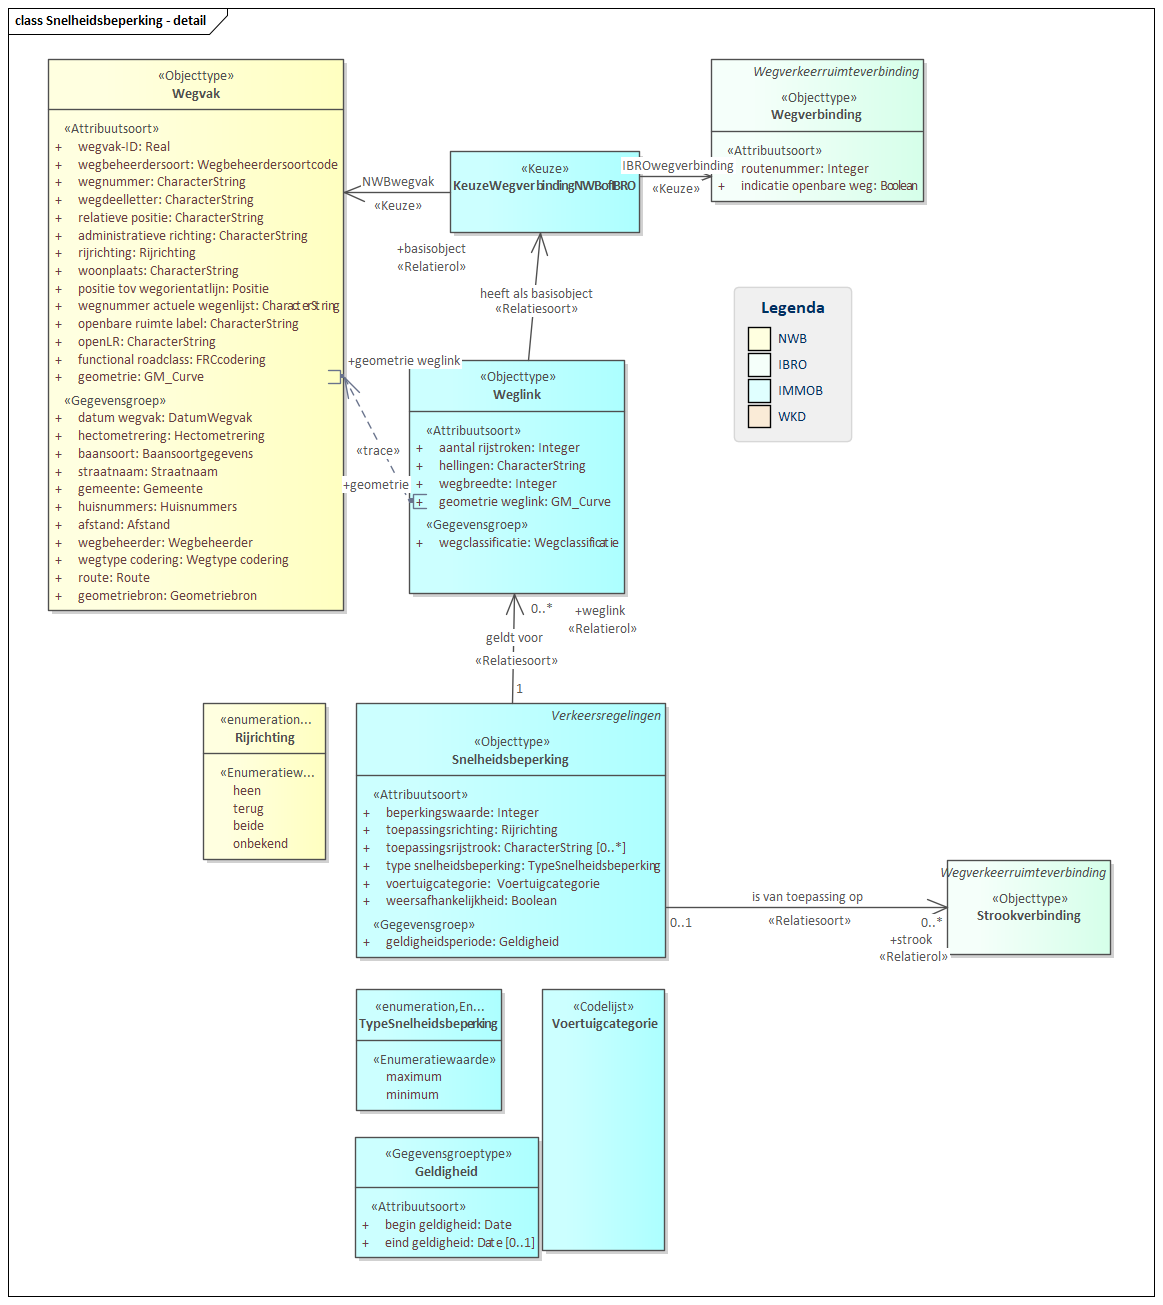
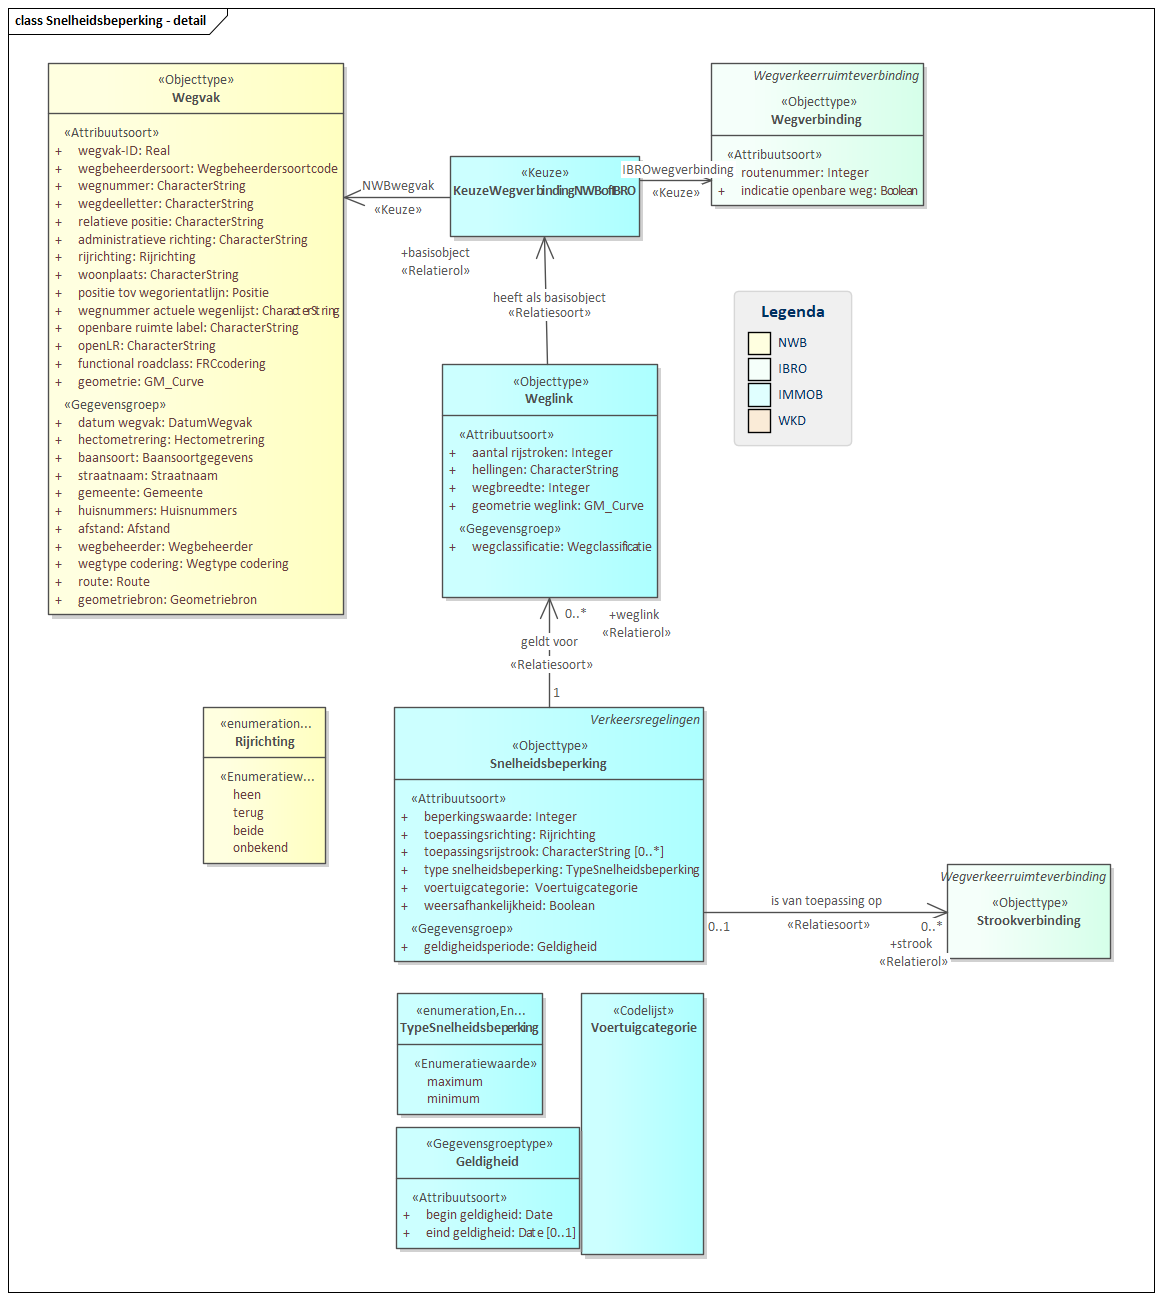
MIMCM-IMMob-conceptueel-1.0-1-20250414-20250428-114720

Changed region(s): [[0.031, 0.0308, 0.9596, 0.9846], [0.6191, 0.2154, 0.712, 0.3385], [0.2786, 0.2769, 0.3095, 0.3077]]

diff --git a/data/IMMOB-cat.respec.html b/data/IMMOB-cat.respec.html
@@ -1,4 +1,4 @@
-<!DOCTYPE HTML><section id="cat" class="normative"><h2>Gegevensdefinitie</h2><!--MIMCM-IMMob-conceptueel-1.0-1-20250414-20250428-114551 imvertor 4.3.0--><section id="global_package_Mobiliteit"><h3>Domein   Mobiliteit</h3><section id="EAID_4CC5EE07_D982_4fb9_B579_A338B9A2E7E2"><h4>   Informatiemodel Mobiliteit - overzicht</h4><div class="imageinfo overview"><figure class="uml-diagram"><img id="EAID_4CC5EE07_D982_4fb9_B579_A338B9A2E7E2" src="data/Images/EAID_4CC5EE07_D982_4fb9_B579_A338B9A2E7E2.png" usemap="#imagemap-EAID_4CC5EE07_D982_4fb9_B579_A338B9A2E7E2" alt="Diagram: Informatiemodel Mobiliteit - overzicht"><figcaption> ‒ Diagram: Informatiemodel Mobiliteit</figcaption></figure><map name="imagemap-EAID_4CC5EE07_D982_4fb9_B579_A338B9A2E7E2"><area shape="rect" alt="Wegvak" coords="258,106,554,210" href="#global_class_NWB_Wegvak"><area shape="rect" alt="Junctie" coords="48,262,171,358" href="#global_class_NWB_Junctie"><area shape="rect" alt="KeuzeWegknoopNWBofIBRO" coords="91,413,258,495" href="#global_class_Mobiliteit_KeuzeWegknoopNWBofIBRO"><area shape="rect" alt="Wegknoop" coords="236,262,359,358" href="#global_class_IBRO_Wegknoop"><area shape="rect" alt="Wegverbinding" coords="585,106,798,188" href="#global_class_IBRO_Wegverbinding"><area shape="rect" alt="Snelheidsbeperking" coords="463,804,772,1059" href="#global_class_Mobiliteit_Snelheidsbeperking"><area shape="rect" alt="KeuzeWegverbindingNWBofIBRO" coords="524,319,723,401" href="#global_class_Mobiliteit_KeuzeWegverbindingNWBofIBRO"><area shape="rect" alt="Wegclassificatie" coords="772,478,995,635" href="#global_class_Mobiliteit_Wegclassificatie"><area shape="rect" alt="Knooppunt" coords="113,559,236,611" href="#global_class_Mobiliteit_Knooppunt"><area shape="rect" alt="Weglink" coords="509,478,725,693" href="#global_class_Mobiliteit_Weglink"></map><p>
+<!DOCTYPE HTML><section id="cat" class="normative"><h2>Gegevensdefinitie</h2><!--MIMCM-IMMob-conceptueel-1.0-1-20250414-20250428-114720 imvertor 4.3.0--><section id="global_package_Mobiliteit"><h3>Domein   Mobiliteit</h3><section id="EAID_4CC5EE07_D982_4fb9_B579_A338B9A2E7E2"><h4>   Informatiemodel Mobiliteit - overzicht</h4><div class="imageinfo overview"><figure class="uml-diagram"><img id="EAID_4CC5EE07_D982_4fb9_B579_A338B9A2E7E2" src="data/Images/EAID_4CC5EE07_D982_4fb9_B579_A338B9A2E7E2.png" usemap="#imagemap-EAID_4CC5EE07_D982_4fb9_B579_A338B9A2E7E2" alt="Diagram: Informatiemodel Mobiliteit - overzicht"><figcaption> ‒ Diagram: Informatiemodel Mobiliteit</figcaption></figure><map name="imagemap-EAID_4CC5EE07_D982_4fb9_B579_A338B9A2E7E2"><area shape="rect" alt="Wegvak" coords="258,106,554,210" href="#global_class_NWB_Wegvak"><area shape="rect" alt="Junctie" coords="48,262,171,358" href="#global_class_NWB_Junctie"><area shape="rect" alt="KeuzeWegknoopNWBofIBRO" coords="91,413,258,495" href="#global_class_Mobiliteit_KeuzeWegknoopNWBofIBRO"><area shape="rect" alt="Wegknoop" coords="236,262,359,358" href="#global_class_IBRO_Wegknoop"><area shape="rect" alt="Wegverbinding" coords="585,106,798,188" href="#global_class_IBRO_Wegverbinding"><area shape="rect" alt="Snelheidsbeperking" coords="463,804,772,1059" href="#global_class_Mobiliteit_Snelheidsbeperking"><area shape="rect" alt="KeuzeWegverbindingNWBofIBRO" coords="524,319,723,401" href="#global_class_Mobiliteit_KeuzeWegverbindingNWBofIBRO"><area shape="rect" alt="Wegclassificatie" coords="772,478,995,635" href="#global_class_Mobiliteit_Wegclassificatie"><area shape="rect" alt="Knooppunt" coords="113,559,236,611" href="#global_class_Mobiliteit_Knooppunt"><area shape="rect" alt="Weglink" coords="509,478,725,693" href="#global_class_Mobiliteit_Weglink"></map><p>
                         <p></p>
                      </p></div></section><section><h4>Objecttypen   </h4>
             <section id="global_class_Mobiliteit_Weglink"><h5>   Weglink</h5>
@@ -108,7 +108,7 @@
                
             </section>
             <section id="global_class_Mobiliteit_Snelheidsbeperking"><h5>   Snelheidsbeperking</h5>
-               <section id="EAID_7324F5DE_60D1_44eb_A262_0196ED639C3A"><h6>   Snelheidsbeperking - detail</h6><div class="imageinfo "><figure class="uml-diagram"><img id="EAID_7324F5DE_60D1_44eb_A262_0196ED639C3A" src="data/Images/EAID_7324F5DE_60D1_44eb_A262_0196ED639C3A.png" usemap="#imagemap-EAID_7324F5DE_60D1_44eb_A262_0196ED639C3A" alt="Diagram: Snelheidsbeperking - detail"><figcaption> ‒ Diagram: Snelheidsbeperking</figcaption></figure><map name="imagemap-EAID_7324F5DE_60D1_44eb_A262_0196ED639C3A"><area shape="rect" alt="Geldigheid" coords="355,1137,539,1258" href="#global_class_Mobiliteit_Geldigheid"><area shape="rect" alt="Voertuigcategorie" coords="542,989,665,1251" href="#global_class_Mobiliteit_Voertuigcategorie"><area shape="rect" alt="Strookverbinding" coords="947,860,1111,955" href="#global_class_IBRO_Strookverbinding"><area shape="rect" alt="Wegverbinding" coords="711,59,924,202" href="#global_class_IBRO_Wegverbinding"><area shape="rect" alt="Wegvak" coords="48,59,344,611" href="#global_class_NWB_Wegvak"><area shape="rect" alt="KeuzeWegverbindingNWBofIBRO" coords="450,151,640,233" href="#global_class_Mobiliteit_KeuzeWegverbindingNWBofIBRO"><area shape="rect" alt="Rijrichting" coords="203,703,326,860" href="#detail_class_NWB_Rijrichting"><area shape="rect" alt="TypeSnelheidsbeperking" coords="356,989,502,1111" href="#detail_class_Mobiliteit_TypeSnelheidsbeperking"><area shape="rect" alt="Weglink" coords="409,360,625,594" href="#global_class_Mobiliteit_Weglink"><area shape="rect" alt="Snelheidsbeperking" coords="356,703,666,958" href="#global_class_Mobiliteit_Snelheidsbeperking"></map><p>
+               <section id="EAID_7324F5DE_60D1_44eb_A262_0196ED639C3A"><h6>   Snelheidsbeperking - detail</h6><div class="imageinfo "><figure class="uml-diagram"><img id="EAID_7324F5DE_60D1_44eb_A262_0196ED639C3A" src="data/Images/EAID_7324F5DE_60D1_44eb_A262_0196ED639C3A.png" usemap="#imagemap-EAID_7324F5DE_60D1_44eb_A262_0196ED639C3A" alt="Diagram: Snelheidsbeperking - detail"><figcaption> ‒ Diagram: Snelheidsbeperking</figcaption></figure><map name="imagemap-EAID_7324F5DE_60D1_44eb_A262_0196ED639C3A"><area shape="rect" alt="Geldigheid" coords="396,1127,580,1249" href="#global_class_Mobiliteit_Geldigheid"><area shape="rect" alt="Voertuigcategorie" coords="581,993,704,1255" href="#global_class_Mobiliteit_Voertuigcategorie"><area shape="rect" alt="Strookverbinding" coords="947,864,1111,959" href="#global_class_IBRO_Strookverbinding"><area shape="rect" alt="Wegverbinding" coords="711,63,924,206" href="#global_class_IBRO_Wegverbinding"><area shape="rect" alt="Wegvak" coords="48,63,344,615" href="#global_class_NWB_Wegvak"><area shape="rect" alt="KeuzeWegverbindingNWBofIBRO" coords="450,156,640,237" href="#global_class_Mobiliteit_KeuzeWegverbindingNWBofIBRO"><area shape="rect" alt="Rijrichting" coords="203,707,326,864" href="#detail_class_NWB_Rijrichting"><area shape="rect" alt="TypeSnelheidsbeperking" coords="397,993,543,1115" href="#detail_class_Mobiliteit_TypeSnelheidsbeperking"><area shape="rect" alt="Weglink" coords="442,364,658,598" href="#global_class_Mobiliteit_Weglink"><area shape="rect" alt="Snelheidsbeperking" coords="394,707,704,962" href="#global_class_Mobiliteit_Snelheidsbeperking"></map><p>
                               <p></p>
                            </p></div></section>
                <section id="EAID_911D0D3E_7767_4bc1_AFB4_46577FCE2C5F"><h6>   Snelheidsbeperking «traces» met link to element features - detail</h6><div class="imageinfo "><figure class="uml-diagram"><img id="EAID_911D0D3E_7767_4bc1_AFB4_46577FCE2C5F" src="data/Images/EAID_911D0D3E_7767_4bc1_AFB4_46577FCE2C5F.png" usemap="#imagemap-EAID_911D0D3E_7767_4bc1_AFB4_46577FCE2C5F" alt="Diagram: Snelheidsbeperking «traces» met link to element features - detail"><figcaption> ‒ Diagram: Snelheidsbeperking «traces» met link to element features</figcaption></figure><map name="imagemap-EAID_911D0D3E_7767_4bc1_AFB4_46577FCE2C5F"><area shape="rect" alt="Snelheidsbeperking" coords="48,138,358,428" href="#global_class_Mobiliteit_Snelheidsbeperking"><area shape="rect" alt="Maximum snelheden" coords="645,63,962,561" href="#global_class_WKD_Maximumsnelheden"></map><p>
@@ -4044,7 +4044,7 @@
             
             
             
-         </section></section></section><section id="lis" class="normative"><h2>Inhoud van waardelijsten</h2><!--MIMCM-IMMob-conceptueel-1.0-1-20250414-20250428-114551 imvertor 4.3.0--><section><h3>Codelijst inhoud   </h3><section id="detail_class_Mobiliteit_Voertuigcategorie"><h4>Codelijst details  Voertuigcategorie</h4>
+         </section></section></section><section id="lis" class="normative"><h2>Inhoud van waardelijsten</h2><!--MIMCM-IMMob-conceptueel-1.0-1-20250414-20250428-114720 imvertor 4.3.0--><section><h3>Codelijst inhoud   </h3><section id="detail_class_Mobiliteit_Voertuigcategorie"><h4>Codelijst details  Voertuigcategorie</h4>
             <table style="width: 100%;" class="list"><colgroup></colgroup><tbody><tr><td></td></tr></tbody></table>
             <table style="width: 100%;"><tbody><tr><th>Waarde</th><th>Omschrijving</th></tr></tbody></table>
          </section></section><section><h3>Enumeratie inhoud   </h3><section id="detail_class_Mobiliteit_TypeSnelheidsbeperking"><h4>Enumeratie details  TypeSnelheidsbeperking</h4>
